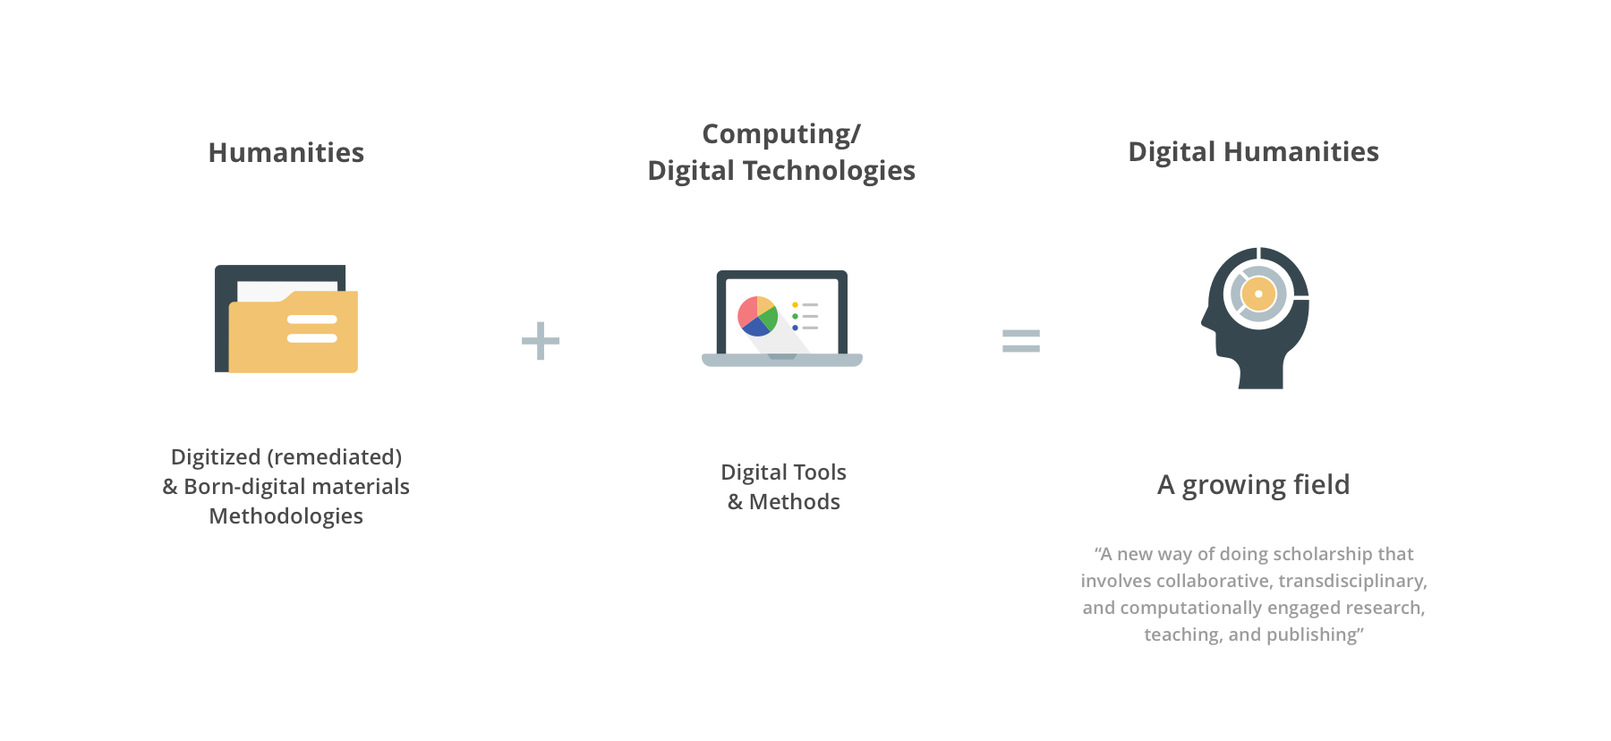
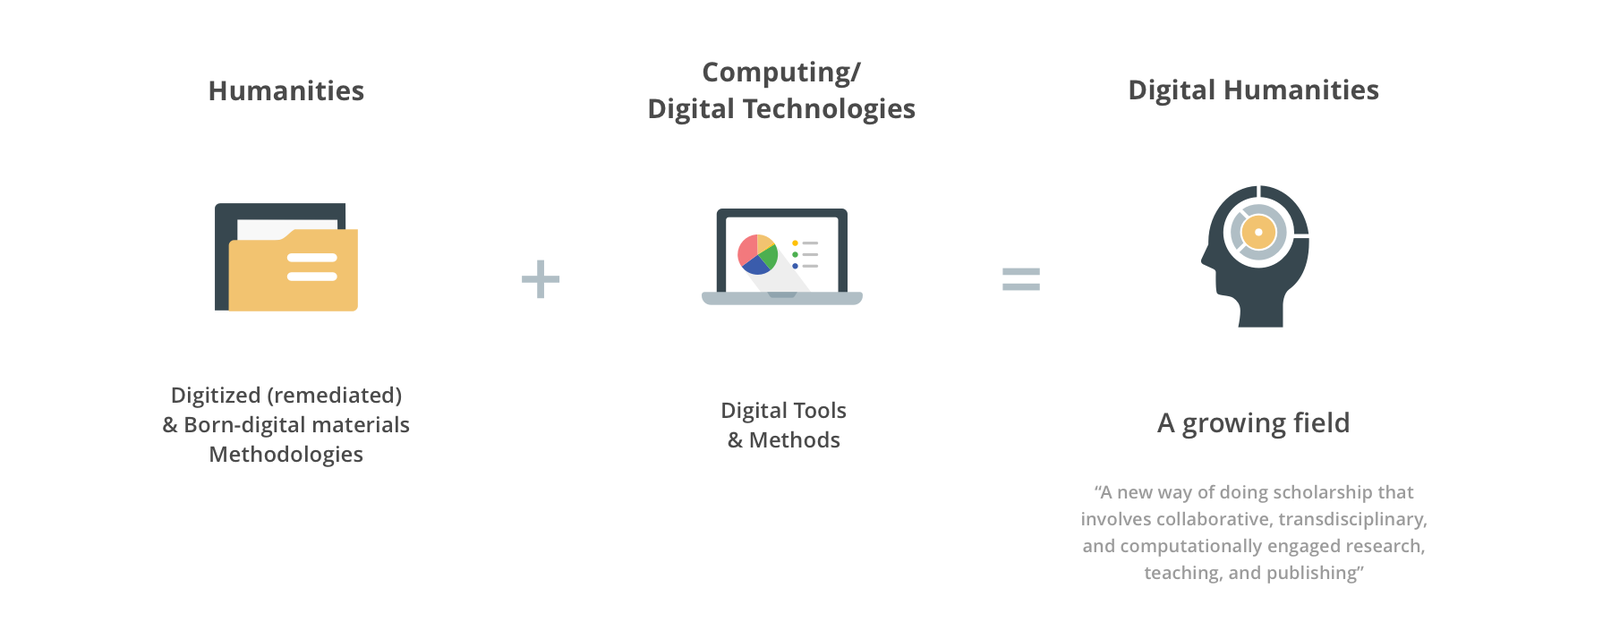
update dslab

diff --git a/works/dslab.html b/works/dslab.html
@@ -77,7 +77,9 @@ gtag('config', 'UA-113651462-1');
                 <li><a href="#brief">Brief</a> </li>
                 <li><a href="#challenge">Design Challenge</a></li>
                 <li><a href="#overview">Design Overview</a></li>
-                <li><a href="#research">Research</a></li>
+                <li><a href="#literature">Literature Review</a></li>
+                <li><a href="#persona">Persona</a></li>
+                <li><a href="#scenario">User Scenario</a></li>
                 <li><a href="#final">Final Design</a></li>
                 <li><a href="#reflection">Reflection</a></li>
             </ul>
@@ -88,7 +90,7 @@ gtag('config', 'UA-113651462-1');
             <div class="col-sm-12">
                 <p><b>Digital Scholar Lab is a Gale tool for Digital Humanists & Scholars which offers solutions and possibilities to the most common challenges in the digital humanities.</b> It has three key features - Create Content Sets, Analyze Documents, and Manage and Share.</p>
                 <p>Visualization is the important way to present document analysis results for digital humanists to understand documents and get insights hidden in the great amount of text. During the summer, I focus on designing interactive visualization of sentiment analysis and document clustering results.</p>
-                <p> <strong> <i> 2018 Summer UX Intern @ Gale, Cengage Learning | Team of 2 with one Senior UX Designer | Duration: June, 2018 - Aug, 2018 | Tools: Axure, Sketch <br> Status: Designed the interactive visualizations for two analysis methods. Under developing. A simplified version has been launched for test in the end of August 2018.</i></strong></p>
+                <p> <strong> <i> 2018 Summer UX Intern @ Gale, Cengage Learning | Team of 2 with one Senior UX Designer | Duration: June, 2018 - Aug, 2018 | Tools: Axure, Sketch </i></strong></p>
             </div>
         </section>
         <section id="challenge" class="section-detail-layout container">
@@ -97,20 +99,19 @@ gtag('config', 'UA-113651462-1');
                 <div class="col-sm-12">
                     <h3>What is Digital Humanities? </h3>
                     <img class="" src="../img/works/dslab/dh.png" alt="Digital Humanists emerges from the field of humanities computing" />
-                    <p>Digital Humanities is the field where scholars work in the intersection of Humanities and Computing by applying digital tools and methods on digital materials from the humanities field. It's still a growing discipline with great potential and exciting opportunities, as well as challenges to overcome. For example, how to find relevant data and content set, analyze materials with digital technologies, and collaborate. </p>
+                    <p>Digital Humanities is the field where scholars work in the intersection of Humanities and Computing by applying digital tools and methods on digital materials from the humanities field.</p>
+                    <!-- <p>It's still a growing discipline with great potential and exciting opportunities, as well as challenges to overcome. For example, how to find relevant data and content set, analyze materials with digital technologies, and collaborate. </p> -->
                 </div>
                 <div class="col-sm-12">
                     <h3>Why visualization in Digital Scholar Lab?</h3>
                     <img src="../img/works/dslab/challenge.png" alt="quotes" />
-                    <p>With the developing of digital technologies, like text mining, it's much easier for researchers and scholars to analyze a great amount of data together and get the hidden value. Visualization is an efficient way to communicate some complex and abstract ideas, and can be useful for both research and pedagogue.</p>
-                    <p>Digital Scholar Lab does not require any coding to help scholars who have no coding skills to analyze materials and visualize the results.</p>
+                    <p>With the developing of digital technologies, like text mining, it's much easier for scholars to analyze a great amount of data together and get the hidden value. Visualization is an efficient way to <strong>communicate complex and abstract ideas</strong>, and can be useful for both research and pedagogue. Digital Scholar Lab <strong>does not require any coding</strong>, which helps scholars without coding skills to analyze materials and visualize the results.</p>
                 </div>
                 <div class="col-sm-12">
                     <h3>What is Sentiment Analysis?</h3>
                     <p>This summer I focus on designing visualization for document clustering and sentiment analysis, here I'd like to share the design and process of sentiment analysis visualization as an example.
                     </p>
-                    <p>Sentiment analysis, also called opinion mining, aims to analyze and understand the attitude, the overall contextual polarity or the emotional reaction to the context of a speaker, writer... </p>
-                    <h4>There are a lot of ways to apply sentiment analysis. How can Digital Scholar Lab help to analyze materials at different levels and visualize results according to various user scenarios?</h4>
+                    <p>Sentiment analysis, also called opinion mining, aims to analyze and understand the attitude, the overall contextual polarity or the emotional reaction to the context of a speaker, writer... <strong>There are a lot of ways to apply sentiment analysis. How can Digital Scholar Lab help to analyze materials at different levels and visualize results according to various user scenarios?</strong></p>
                 </div>
             </div>
         </section>
@@ -135,34 +136,34 @@ gtag('config', 'UA-113651462-1');
             <div class="row">
             </div>
         </section>
-        <section id="research" class="section-detail-layout container">
+        <section id="literature" class="section-detail-layout container">
             <h2>Research</h2>
-            <h3>Literature Review</h3>
-            <p class="sub-title">Understand the context of sentiment analysis and current applications</p>
+            <p class="sub-title">Literature Review</p>
+            <h3>Sentiment analysis have different outpts and ways of visualization based on different context.</h3>
             <div class="row">
                 <div class="col-sm-12">
-                    <h5>Example 1 </h5>
-                    <h4><a href="https://www.csc2.ncsu.edu/faculty/healey/tweet_viz/">Tweets sentiment analysis</a> and <a href="https://www.csc2.ncsu.edu/faculty/healey/tweet_viz/tweet_app/">live demo</a> | Detailed emotional distribution about a topic</h4>
-                    <img class="col-sm-offset-1 col-sm-10" src="../img/works/dslab/example.png" alt="tweet sentiment analysis" />
+                    <h4>Example 1 </h4>
+                    <p><a href="https://www.csc2.ncsu.edu/faculty/healey/tweet_viz/">Tweets sentiment analysis</a> and <a href="https://www.csc2.ncsu.edu/faculty/healey/tweet_viz/tweet_app/">live demo</a> | Detailed emotional distribution about a topic</p>
+                    <img class="col-sm-offset-2 col-sm-8" src="../img/works/dslab/example.png" alt="tweet sentiment analysis" />
                 </div>
                 <div class="col-sm-12">
-                    <h5>Example 2</h5>
-                    <h4>Chinese Sentiment analysis of a sentence with various outputs <a href="http://try.yuyidata.com">live demo</a> </h4>
+                    <h4>Example 2</h4>
+                    <p>Chinese Sentiment analysis of a sentence with various outputs <a href="http://try.yuyidata.com">live demo</a> </p>
                     <img class="col-sm-offset-1 col-sm-10" src="../img/works/dslab/example2.png" alt="tweet sentiment analysis" />
                 </div>
                 <div class="col-sm-12">
-                    <h5>Example 3</h5>
-                    <h4>Left: Visualization of sentiment change overtime of United Airlines’ PR Crisis based on Tweets <a href="http://ipullrank.com/step-step-twitter-sentiment-analysis-visualizing-united-airlines-pr-crisis/">demo</a> | Right: How public sentiment change regarding real-life events analyzed from Twitter data in a time-series diagram. </h4>
+                    <h4>Example 3</h4>
+                    <p>Left: Visualization of sentiment change overtime of United Airlines’ PR Crisis based on Tweets <a href="http://ipullrank.com/step-step-twitter-sentiment-analysis-visualizing-united-airlines-pr-crisis/">demo</a> | Right: How public sentiment change regarding real-life events analyzed from Twitter data in a time-series diagram. </p>
                     <img class="col-sm-offset-1 col-sm-10" src="../img/works/dslab/example3.png" alt="tweet sentiment analysis" />
                 </div>
                 <div class="col-sm-12">
-                    <h5>Example 4</h5>
-                    <h4>Sentiment change over time displaying in a calendar view, every pixel represents one document</h4>
+                    <h4>Example 4</h4>
+                    <p>Sentiment change over time displaying in a calendar view, every pixel represents one document</p>
                     <img class="col-sm-offset-3 col-sm-6" src="../img/works/dslab/example4.png" alt="tweet sentiment analysis" />
                 </div>
                 <div class="col-sm-12">
-                    <h5>Example 5</h5>
-                    <h4>Top: The top issues discovered by the pattern detection algorithm. | Bottom: Time density plot that illustrates all comments related to the feature “password” with associated terms shown at the bottom and example comments on top.</h4>
+                    <h4>Example 5</h4>
+                    <p>Top: The top issues discovered by the pattern detection algorithm. | Bottom: Time density plot that illustrates all comments related to the feature “password” with associated terms shown at the bottom and example comments on top.</p>
                     <img class="col-sm-offset-3 col-sm-6" src="../img/works/dslab/example5.png" alt="tweet sentiment analysis" />
                 </div>
                 <div class="col-sm-12">
@@ -170,9 +171,9 @@ gtag('config', 'UA-113651462-1');
                 </div>
             </div>
         </section>
-        <section class="section-detail-layout container">
-            <h3>Persona</h3>
-            <p class="sub-title">Design in the shoes of our users</p>
+        <section id="persona" class="section-detail-layout container">
+            <p class="sub-title">Persona</p>
+            <h3>Ashley who is new to the analysis tools and methods, and experienced users like Armando both worth our attention.</h3>
             <div class="row">
                 <div class="col-sm-12">
                     <img src="../img/works/dslab/persona.png" alt="all personae" />
@@ -180,12 +181,12 @@ gtag('config', 'UA-113651462-1');
                 </div>
             </div>
         </section>
-        <section class="section-detail-layout container">
-            <h3>User Scenario</h3>
-            <p class="sub-title">Understanding the context and user paths</p>
+        <section id="scenario" class="section-detail-layout container">
+            <p class="sub-title">User Scenario</p>
+            <h3>User scenarios vary based on different types of input, analysis level and expected output.</h3>
             <div class="row">
                 <div class="col-xs-12">
-                    <p>There are several user paths:</p>
+                    <p>There are several user scenarios:</p>
                     <img src="../img/works/dslab/paths.png" alt="user paths" />
                     <p>As Ashley, I expect: </p>
                     <p>To create a content set representing an event or topic within newspapers <b>sequenced by time</b></p>
@@ -206,73 +207,101 @@ gtag('config', 'UA-113651462-1');
             <p class="sub-title"></p>
 
             <p class="sub-title">Challenge 1</p>
-            <h3>When user creates a content set of a topic or event, how can she/he discern the overall sentiment?</h3>
+            <h3>When user creates a content set of a topic or event, how to discern the overall sentiment?</h3>
             <div class="row">
                 <img class="col-xs-12" src="../img/works/dslab/overall.png" alt="overall"/>
                 <p class="col-xs-12">
-                    The visualization shows the overall sentiment distribution of the whole content set in five polarity levels, strongly negative, negative, neutral, positive, strongly positive. Ashley can click on the bar to view all documents within the content set that have the corresponding sentiment.
+                    The visualization shows the <strong>overall sentiment distribution of the whole content set in five polarity levels</strong>, strongly negative, negative, neutral, positive, strongly positive. Click on the bar to view all documents within the content set that have the corresponding sentiment.
                 </p>
             </div>
-            <h5>Iterations</h5>
-            <div class="row">
+            <h4>Iterations</h4>
+            <div class="row gray-bg">
                 <img class="col-xs-12" src="../img/works/dslab/iteration1.png" alt="iteration1"/>
+                <div class="col-xs-12">
+                    <ul>
+                    <li><strong>Use only polarity as outputs</strong>, since there is technical limitation on analyzing the detailed emotions among a great amount of documents accuratly.</li>
+                    <li><strong>Use bar chart instead of donut chart</strong>, since users care more about the amount. And bar chart can also give a general sense of percentage.</li>
+                    <li><strong>Change the visualization color palette</strong>, since red gives a more negtive feeling and green more positive.</li>
+                    </ul>
+                </div>
             </div>
-
+        </section>
+        <section class="section-detail-layout container">
             <p class="sub-title">Challenge 2</p>
             <h3>How can user know the sentiment change overtime of a topic or event by analyzing a set of sequential documents?</h3>
             <div class="row">
                 <img class="col-xs-12" src="../img/works/dslab/change.png" alt="sequntial documents"/>
                 <p class="col-xs-12">
-                    The line chart can most efficiently shows the sentiment change overtime. The top graph shows each document's polarity, and the bottom graph using the average polarity of each decades to show the mainstream sentiment change of that topic/events.
+                    The line chart can most efficiently show the sentiment change overtime. The top graph uses each document's polarity, and the bottom graph uses the average polarity of each decade to show the mainstream sentiment change of that topic/events.
                 </p>
             </div>
-            <h5>Iterations</h5>
-            <div class="row">
+            <h4>Iterations</h4>
+            <div class="row gray-bg">
                 <img class="col-xs-12" src="../img/works/dslab/iteration2.png" alt="iteration1"/>
+                <div class="col-xs-12">
+                    <ul>
+                    <li><strong>Seperate the graphs</strong>, since users usually focus on one graph at a time. </li>
+                    <li><strong>Add Zoom function on the line graph</strong>, since the corpus may has hundreds of documents from a various time which can make the x-axis quite long.</li>
+                    <li><strong>Use the size of the dot to reperest the number of documents</strong> in that decades in the third graph.</li>
+                    </ul>
+                </div>
             </div>
-
+        </section>
+        <section class="section-detail-layout container">
             <p class="sub-title">Challenge 3</p>
-            <h3>How can user discern the overall sentiment of the content set at the paragraph(or sentence, and other user defined chunks) level of each document?</h3>
+            <h3>How can user discern the overall sentiment of the content set at paragraph(or other user defined chunks) level of each document?</h3>
             <div class="row">
                 <img class="col-xs-12" src="../img/works/dslab/doc.png" alt="document level"/>
                 <p class="col-xs-12">
-                    The visualization shows the overall sentiment distribution and polarity value, key sentiment words and the sentiment change of each document in the whole corpus. User can click each card to view the detail of the document.
+                    The visualization shows the overall sentiment distribution, key sentiment words and sentiment change of each document in the whole corpus. User can click each card to view the detail of the document.</strong>
                 </p>
             </div>
-            <h5>Iterations</h5>
-            <div class="row">
+            <h4>Iterations</h4>
+            <div class="row gray-bg">
                 <img class="col-xs-12" src="../img/works/dslab/iteration3.png" alt="iteration1"/>
+                 <p class="col-xs-12">
+                    Use the combined bar and line chart instead. <strong>Knowing the sentiment by chunks</strong> can be more meaningful instead of general data while analyzing on document level.
+                </p>
             </div>
-
+        </section>
+        <section class="section-detail-layout container">
             <p class="sub-title">Challenge 4</p>
             <h3>How can user discern the sentiment score at the paragraph(or sentence, and other user defined chunks) level of the document?</h3>
             <div class="row">
                 <img class="col-xs-12" src="../img/works/dslab/overlay.png" alt="overall"/>
                 <p class="col-xs-12">
-                    On the document/article page, adding a visualization summary panel under the existing DOC EXPLORER. The visualization contains three parts, the sentiment overlay, the overall sentiment of the document, and the sentiment development of the document. The sentiment overlay will highlight the document with corresponding colors by chunk. The overall sentiment shows the number of chunks of the polarity levels. The sentiment development has a zoom in view of the sentiment development of the current page and a scope controller showing the development of the whole document and a sliding window which can direct to the specific page.
+                    On the document/article page, add a visualization summary panel under the existing DOC EXPLORER. The visualization contains three parts, <strong>the sentiment overlay, the overall sentiment of the document, and the sentiment development of the document.</strong> The sentiment overlay will highlight the document with corresponding colors by chunk. The overall sentiment shows the number of chunks of the polarity levels. The sentiment development has a zoom-in view of the sentiment development of the current page and a scope controller showing the development of the whole document and a sliding window which can direct to the specific page.
                 </p>
             </div>
-            <h5>Iterations</h5>
-            <div class="row">
+            <h4>Iterations</h4>
+            <div class="row gray-bg">
                 <img class="col-xs-12" src="../img/works/dslab/iteration4.png" alt="iteration1"/>
+                <div class="col-xs-12">
+                    <ul>
+                    <li>During evaluation, users found it was a pretty novel way to understand a document, and can help students to better understand how sentiment analysis works.</li>
+                    <li>But when the document is long, the side panel may not be perfect to fit the visualization.</li>
+                    </ul>
+                </div>
             </div>
-
+        </section>
+        <section class="section-detail-layout container">
             <p class="sub-title">Challenge 5</p>
             <h3>How can user set and adjust text clean parameters for sentiment analysis?</h3>
             <div class="row">
                 <img class="col-xs-12" src="../img/works/dslab/setting.png" alt="text clean setting"/>
                 <p class="col-xs-12">
-                    Since the sentiment analysis is ran on the OCR text which might not be 100% accurate, before sentiment analysis there should be several text cleaning on the content and formatting to improve the credibility of analysis result. But for most primary resources, automatic OCR and text clean can still be hard to provide high quality resources. The manual and crowd-sourcing text cleaning is another major challenge under developing.
+                    Since the sentiment analysis is ran on the OCRed text which might not be 100% accurate. Before sentiment analysis there should be several text cleaning on the content and format to improve the credibility of analysis result. But <strong>for most primary resources, automatic OCR and text clean can still be hard to provide high quality resources. The manual and crowd-sourcing text cleaning is another major challenge under developing.</strong>
                 </p>
-                <p class="col-xs-12">In the meanwhile, for pedagogical purpose, what's the purpose of each text clean rule should be explained to students like Ashley. And samples of how these rules work and affect the analysis should be provided.</p>
+                <p class="col-xs-12">In the meanwhile, for pedagogical purpose, what's the <strong>purpose of each text cleaning rule should be explained</strong> to students like Ashley. And <strong>samples of how these rules work and affect the analysis</strong> should be provided.</p>
             </div>
         </section>
+
         <section id="reflection" class="section-detail-layout container">
             <h2>Reflection</h2>
             <div class="row">
                 <div class="col-md-12">
                     <p>Designing and testing visualization is a little bit different. Since for people new to visualization they may not so sure about what's the most efficient way for them. So <b>at early stage, visualization and DH experts can provide much more valuable feedbacks</b> based on their experience. And when a relative complete design is created, <b>the major users who are new to the tools should be involved into evaluation</b> to test whether it's easier to learn and understand.</p>
-                    <p>While designing visualization, I should <b>balance the design and development</b>. Based on the tech stack the development team is using and development timeline, some visualization might not be able to delivery, so it's important to consider all these in the beginning. Some design might be able to realized easily based on the current tech stack, some design might need extra investment. For example, the sentiment overlay is not a common visualization and need extra effort for the development team to realize. But after evaluations with users, DH specialists, product team, development team and other related teams, it was a feature worth extra investment.</p>
+                    <p>While designing visualization, <b>design and development should be balanced</b>. Based on the tech stack the development team is using and development timeline, some visualization might not be able to delivery, so it's important to consider all these in the beginning. Some design might be able to realized easily based on the current tech stack, some design might need extra investment. For example, the sentiment overlay is not a common visualization and need extra effort for the development team to realize. But after evaluations with users, DH specialists, product team, development team and other related teams, it was a feature worth extra investment.</p>
                     <p>If I had more time I'd like to do <b>more user evaluations</b> with DH students to mainly test whether <b>text clean settings and visualization are understandable</b>, how to better categories the visualization (group by analysis level or by context).</p>
                 </div>
             </div>

diff --git a/works/icfe.html b/works/icfe.html
@@ -169,10 +169,10 @@ gtag('config', 'UA-113651462-1');
                 </div>
             </div>
         </section>
-        <section id="research" class="section-detail-layout container inverse">
+        <section id="persona" class="section-detail-layout container inverse">
             <h2>Research</h2>
-            <h3>Persona Mapping</h3>
-            <p class="sub-title">Prioritize user needs and define product scope</p>
+            <p class="sub-title">Persona Mapping</p>
+            <h3>Prioritize user needs and define product scope</h3>
             <div class="row">
                 <div class="col-sm-12">
                     <p>After analyzing research results, we categorized and listed all user needs and created 12 personae for major needs. In order to prioritize user needs, in the meanwhile, define the scope of product and make sure it is sell-able and technical feasible, then we conducted a persona mapping session with VP, PM, tech lead, sales, marketing, and specialists to get one primary persona, two secondary personae and three tertiary personae.</p>
@@ -229,8 +229,8 @@ gtag('config', 'UA-113651462-1');
             </div>
         </section>
         <section class="section-detail-layout container">
-            <h3>Roles and Goals Matrix</h3>
-            <p class="sub-title">Find overlapping and special needs</p>
+            <p class="sub-title">Roles and Goals Matrix</p>
+            <h3>Find overlapping and special needs</h3>
             <div class="row">
                 <div class="col-xs-12">
                     <p>After persona mapping, I created a roles and goals matrix with hierarchic goals and the 6 selected personae. For each persona I marked all the possible goals. After finishing this matrix, some overlapping goals and special goals for some personae can be obvious. And the weight of each goal was different because of the importance of each persona, which should also be taken into consideration while ordering the goals. Through the matrix, we got the priority of goals, which are important to our product.</p>
@@ -250,8 +250,8 @@ gtag('config', 'UA-113651462-1');
             </div>
         </section>
         <section class="section-detail-layout container">
-            <h3>User Scenario</h3>
-            <p class="sub-title">Understanding the context and all possible user paths</p>
+            <p class="sub-title">User Scenario</p>
+            <h3>Understanding the context and all possible user paths</h3>
             <div class="row">
                 <div class="col-xs-12">
                     <p>For each selected persona, we analyzed the user scenario, to be more specific, what materials they'll have in hand, how the materials related to curriculum, the anticipated user path and other objectives. </p>
@@ -264,8 +264,8 @@ gtag('config', 'UA-113651462-1');
                 </div>
         </section>
         <section class="section-detail-layout container">
-            <h3>Workflow</h3>
-            <p class="sub-title">Synthesize user paths for various design concepts</p>
+            <p class="sub-title">Workflow</p>
+            <h3>Synthesize user paths for various design concepts</h3>
             <div class="row">
                 <div class="col-xs-12">
                     <p>Based on the scenarios and important goals we got, we found there are several possible user paths. We together designed several variations and integrated into two concepts. I'll focus on the concept I was responsible for.</p>

diff --git a/css/workDetail.css b/css/workDetail.css
@@ -114,9 +114,16 @@
   
 }
 .work-detail h3 {
-  /*padding-bottom: 1.5em;*/
-  margin-bottom: 0;
+  /*padding-bottom: 1em;*/
+  margin-top: 0;
+  margin-bottom: 1em;
 }
+
+.dslab #challenge h3 {
+  margin-bottom: .5em;
+  margin-top: 1em;
+}
+
 .work-detail .video-text h3 {
   /*padding-bottom: 1.5em;*/
   margin-bottom: 1em;
@@ -129,8 +136,8 @@
 
 .work-detail .sub-title{
   padding-top: 0;
-  margin-top: 0;
-  margin-bottom: 1.5em;
+  margin-bottom: 0;
+  margin-top: 1.5em;
   font-weight: 500;
   color: #bbb;
 

diff --git a/css/main.css b/css/main.css
@@ -51,6 +51,9 @@ section p {
   color       : #555;
   font-size   : 1.2em;
   line-height : 1.8em;
+  /*margin-bottom: 1em;*/
+}
+section p {
   margin-bottom: 1em;
 }
 
@@ -107,6 +110,10 @@ h2.mainproblem {
 
 .white {
   color: #fff;
+}
+
+.gray-bg {
+  background-color: #f8f8f8;
 }
 /* webkit, opera, IE9 */
 
